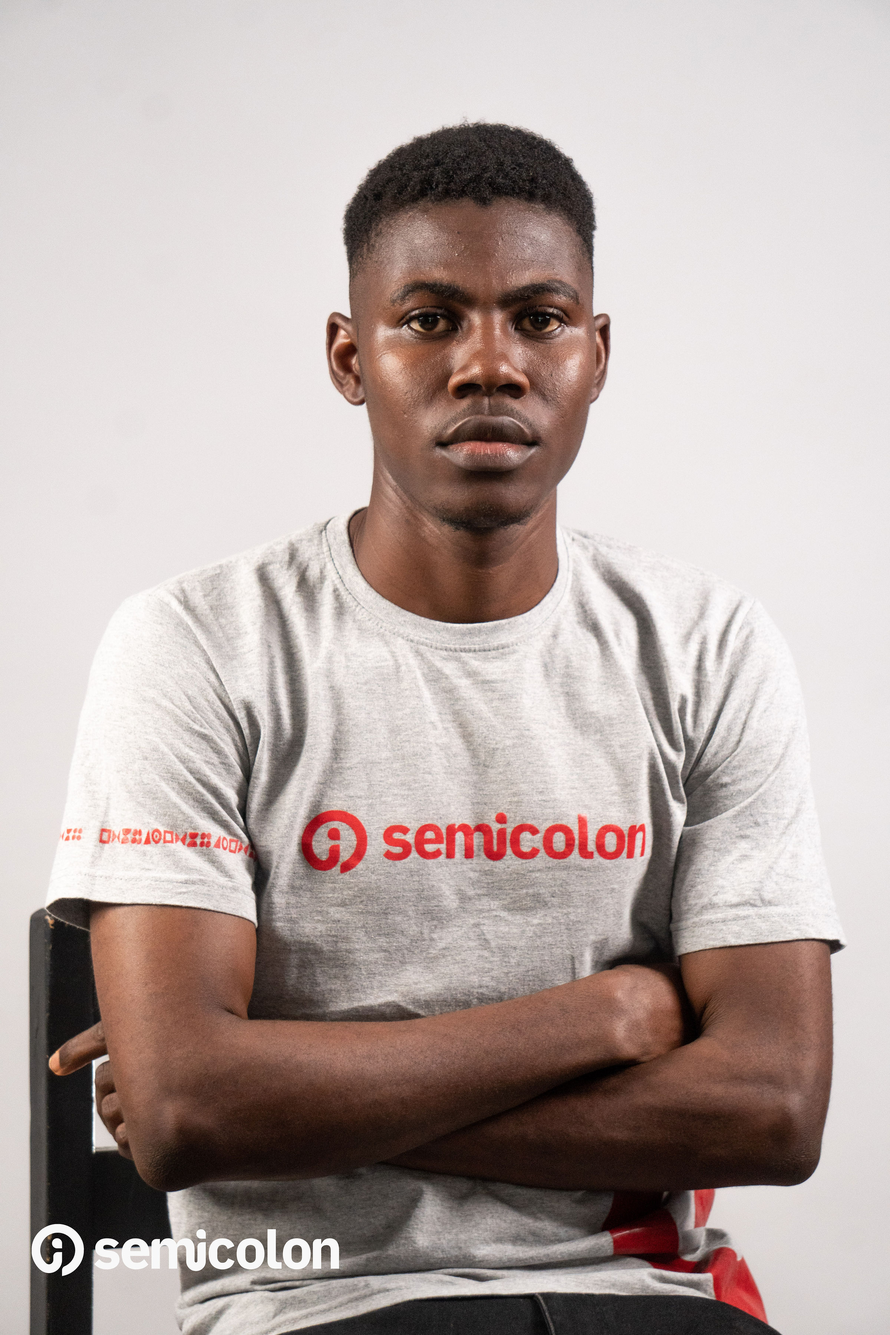
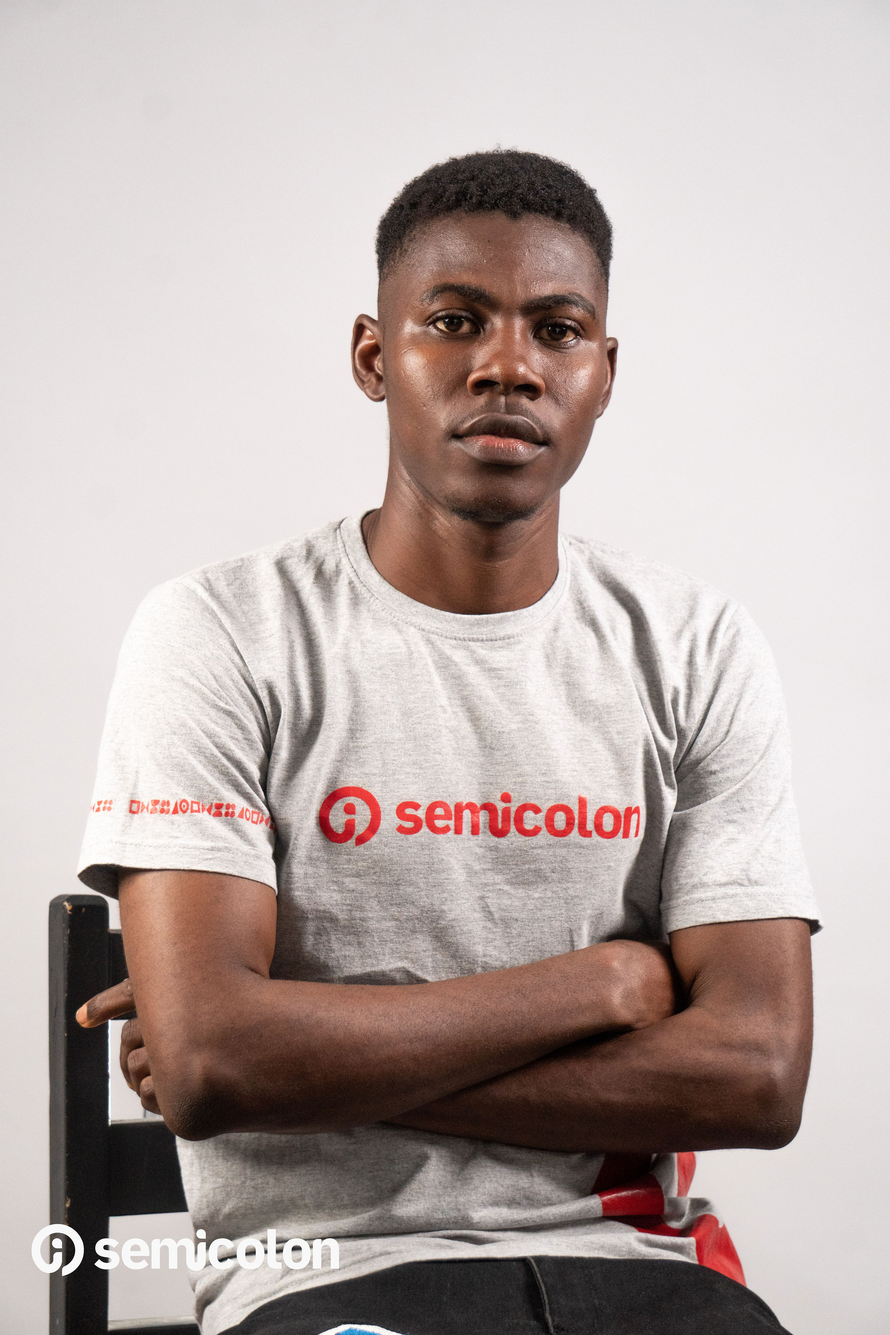
working progress

diff --git a/src/components/Contacts.jsx b/src/components/Contacts.jsx
@@ -9,10 +9,10 @@ const Contacts = () => (
                 <div className="space-y-6 text-center">
                     <div>
                         <p className="text-gray-300 mb-4">
-                            Looking for data science internship opportunities
+                            Looking for role of junior software engineer
                         </p>
                         <a
-                            href="https://docs.google.com/document/d/1FEwGEAS8t-yCU-OOlqdkaRJf6Tc6eMalpsB77zpE2sc/edit?usp=sharing" // Replace with your actual CV URL
+                            href="https://docs.google.com/document/d/1F7bYTpabfw_4M7wE64S77XzlWR4kv5OfprfSZ9S2H6I/edit?tab=t.0" // Replace with your actual CV URL
                             target="_blank"
                             rel="noopener noreferrer"
                             className="inline-block bg-cyan-500 text-slate-900 px-6 py-3 rounded-lg font-medium hover:bg-cyan-400 transition-colors"
@@ -24,17 +24,17 @@ const Contacts = () => (
                     <div className="pt-8 border-t border-slate-600">
                         <p className="text-gray-300">
                             Connect via{' '}
-                            <a
-                                href="https://www.linkedin.com/in/shakira-hibatullahi-333126293/"
-                                className="text-cyan-400 hover:underline"
-                                target="_blank"
-                                rel="noopener noreferrer"
-                            >
-                                LinkedIn
-                            </a>{' '}
+                            {/*<a*/}
+                            {/*    href="https://www.linkedin.com/in/shakira-hibatullahi-333126293/"*/}
+                            {/*    className="text-cyan-400 hover:underline"*/}
+                            {/*    target="_blank"*/}
+                            {/*    rel="noopener noreferrer"*/}
+                            {/*>*/}
+                            {/*    LinkedIn*/}
+                            {/*</a>{' '}*/}
                             or explore code on{' '}
                             <a
-                                href="https://github.com/HibatullahiShakira"
+                                href="https://github.com/funso1234"
                                 className="text-cyan-400 hover:underline"
                                 target="_blank"
                                 rel="noopener noreferrer"

diff --git a/src/components/Projects.jsx b/src/components/Projects.jsx
@@ -7,20 +7,20 @@ const Projects = () => {
 
     const projects = [
         {
-            title: "Retail Theft Detection System",
-            problem: "Shoplifting causes $100B+ in annual global losses",
-            solution: "Real-time computer vision system using OpenCV and YOLO",
-            impact: "Reduced potential losses by 40% in pilot tests",
-            tools: ["Python", "TensorFlow", "OpenCV", "Django", "YOLO"],
-            details: "Developed core ML pipeline and integration of computer vision system with web interface"
+            title: "SoulEase",
+            problem: "Many young individuals face mental health challenges without access to proper support.",
+            solution: "Built a digital platform that connects youth with certified therapists for accessible and confidential mental health care",
+            impact: " Helped reduce suicide risk by improving access to timely professional support",
+            tools: ["Java", "React", "PostgresSQL", "Spring Boot"],
+            details: "Designed and implemented core backend services and frontend integration; laid groundwork for future expansion to include AI-driven recommendations and user analytics"
         },
         {
-            title: "Accounting Management Software",
-            problem: "Manual financial tracking slows business growth",
-            solution: "Comprehensive financial management system with cash flow forecasting",
-            impact: "Reduced financial reporting time by 50% for SMEs",
-            tools: ["Java Spring Boot", "TensorFlow", "SARIMA", "Matplotlib"],
-            details: "Implemented forecasting models and inventory management features"
+            title: "Wasobia Interstate Transportation",
+            problem: "Lack of reliable and efficient interstate transportation booking systems",
+            solution: "Built a user-friendly platform to compare, book, and track interstate travel options",
+            impact: "Improved access to affordable transport and increased ridership transparency",
+            tools: ["Java", "React", "PostgresSQL", "Spring Boot"],
+            details: "Designed responsive UI, implemented secure booking flow, and integrated real-time bus tracking via third-party APIs"
         },
         {
             title: "Silent Speech Interface",

diff --git a/src/components/Hero.jsx b/src/components/Hero.jsx
@@ -11,14 +11,16 @@ const Hero = () => (
                 {/* Text Content */}
                 <div>
                     <h1 className="text-5xl font-bold mb-6 text-cyan-100">
-                        Hibatullahi Shakira
+                        Oyewusi Samuel
                     </h1>
                     <h2 className="text-3xl mb-8 font-light text-cyan-400">
-                        Data Scientist, Software Engineer & Problem Solver
+                        Software Engineer & Problem Solver
                     </h2>
                     <p className="text-lg mb-12 text-gray-300 max-w-2xl">
-                        I use technology to solve real-world problems, from reducing retail losses to streamlining financial operations.
-                        My approach combines <span className="text-cyan-400">data-driven insights</span> with <span className="text-cyan-400">practical software solutions</span> to create measurable impact.
+                        I build software that solves real-world problems—whether its reducing retail losses,
+                        streamlining financial operations, or automating complex workflows.
+                        My focus is on delivering thoughtful, well-crafted solutions that improve efficiency,
+                        enhance user experience, and drive meaningful results for businesses.
                     </p>
                     <div className="flex space-x-6">
                         <a
@@ -42,7 +44,7 @@ const Hero = () => (
 
                     {/* Your Image */}
                     <img
-                        src={new URL('../assets/Shakirah.JPG', import.meta.url).href}
+                        src={new URL('../assets/Sammy.JPG', import.meta.url).href}
                         alt="Shakira Hibatullahi"
                         className="relative rounded-3xl w-full h-auto border-2 border-cyan-500/20"
                     />

diff --git a/src/components/ContactInfo.jsx b/src/components/ContactInfo.jsx
@@ -21,12 +21,12 @@ const ContactInfo = () => (
                         <div>
                             <h3 className="text-xl font-semibold text-cyan-100">Message Me on WhatsApp</h3>
                             <a
-                                href="https://wa.me/2348137026343" // Replace with your WhatsApp link
+                                href="https://wa.me/2348147755516" // Replace with your WhatsApp link
                                 target="_blank"
                                 rel="noopener noreferrer"
                                 className="text-gray-300 hover:text-cyan-400 transition-colors"
                             >
-                                +234 813 702 6343
+                                +234 814 775 5516
                             </a>
                         </div>
                     </div>
@@ -37,12 +37,12 @@ const ContactInfo = () => (
                         <div>
                             <h3 className="text-xl font-semibold text-cyan-100">Email Me</h3>
                             <a
-                                href="mailto:hibatullahishakira@gmail.com" // Replace with your Gmail
+                                href="mailto:samuel08063251499@gmail.com"
                                 target="_blank"
                                 rel="noopener noreferrer"
                                 className="text-gray-300 hover:text-cyan-400 transition-colors"
                             >
-                                hibatullahishakira@gmail.com
+                                samuel08063251499@gmail.com
                             </a>
                         </div>
                     </div>

diff --git a/src/components/Skills.jsx b/src/components/Skills.jsx
@@ -2,17 +2,17 @@ import { motion } from 'framer-motion';
 
 const Skills = () => {
     const skills = {
-        "Data Science": [
-            "Python", "Pandas", "Scikit-learn", "TensorFlow",
-            "SQL", "PowerBi", "Statistical Analysis", "Hypothesis Testing",
-            "Numpy", "Matplotlib", "Computer Vision", "OpenCv", "Time Series"
-        ],
+        // "Data Science": [
+        //     "Python", "Pandas", "Scikit-learn", "TensorFlow",
+        //     "SQL", "PowerBi", "Statistical Analysis", "Hypothesis Testing",
+        //     "Numpy", "Matplotlib", "Computer Vision", "OpenCv", "Time Series"
+        // ],
         "Software Engineering": [
             "Java", "Spring Boot", "OOP", "UML Diagrams",
             "Django", "REST APIs", "Git", "Docker", "TDD", "SDLC"
         ],
         "Frontend": [
-            "HTML", "CSS", "JavaScript", "React Basics",
+            "HTML", "CSS", "Tailwind", "JavaScript", "React Basics",
             "Responsive Design", "Bootstrap"
         ]
     };
@@ -24,7 +24,7 @@ const Skills = () => {
                     Technical Skills
                 </h2>
 
-                <div className="grid md:grid-cols-3 gap-8">
+                <div className="grid md:grid-cols-2 gap-8">
                     {Object.entries(skills).map(([category, items]) => (
                         <motion.div
                             key={category}

diff --git a/src/components/About.jsx b/src/components/About.jsx
@@ -7,16 +7,14 @@ const About = () => (
 
             <div className="max-w-3xl mx-auto text-gray-300 space-y-6">
                 <p>
-                    I Shakira Hibatullahi, a passionate problem-solver combining expertise in Economics and Software Engineering to create data-driven solutions. With a degree in Economics and intensive training at Semicolon Africa, I bridge technical implementation with business impact.
+                    I Samuel Oyewusi, a passionate problem-solver combining expertise in Software Engineering. With a degree in Industrial Chemistry and intensive training at Semicolon Africa, I bridge technical implementation with business impact.
                 </p>
 
                 <p>
                     My work focuses on developing practical solutions to real-world challenges, from financial systems optimization to computer vision applications. I thrive in cross-functional environments where technical excellence meets strategic business understanding.
                 </p>
 
-                <p>
-                    When not coding, I explore new developments in AI/ML. Currently seeking opportunities to apply my skills in impactful data science roles.
-                </p>
+
             </div>
         </div>
     </section>

diff --git a/src/components/Navigation.jsx b/src/components/Navigation.jsx
@@ -9,7 +9,7 @@ const Navigation = () => (
     >
         <div className="container mx-auto px-6 py-4">
             <div className="flex justify-between items-center">
-                <span className="text-2xl font-bold text-cyan-400">HS</span>
+                <span className="text-2xl font-bold text-cyan-400">OS</span>
                 <div className="flex items-center gap-8 text-gray-300">
                     {["Skills", "Projects", "Experience", "Contact"].map((item) => (
                         <a
@@ -24,7 +24,7 @@ const Navigation = () => (
                         <a href="https://www.linkedin.com/in/shakira-hibatullahi-333126293/" target="_blank" rel="noopener noreferrer">
                             <Linkedin className="w-6 h-6 hover:text-cyan-400" />
                         </a>
-                        <a href="https://github.com/HibatullahiShakira" target="_blank" rel="noopener noreferrer">
+                        <a href="https://github.com/funso1234" target="_blank" rel="noopener noreferrer">
                             <Github className="w-6 h-6 hover:text-cyan-400" />
                         </a>
                     </div>

diff --git a/index.html b/index.html
@@ -3,7 +3,7 @@
   <head>
     <meta charset="UTF-8" />
     <meta name="viewport" content="width=device-width, initial-scale=1.0" />
-    <title>Hibatullahi Shakira</title>
+    <title>Oyewusi samuel</title>
   </head>
   <body>
     <div id="root"></div>
